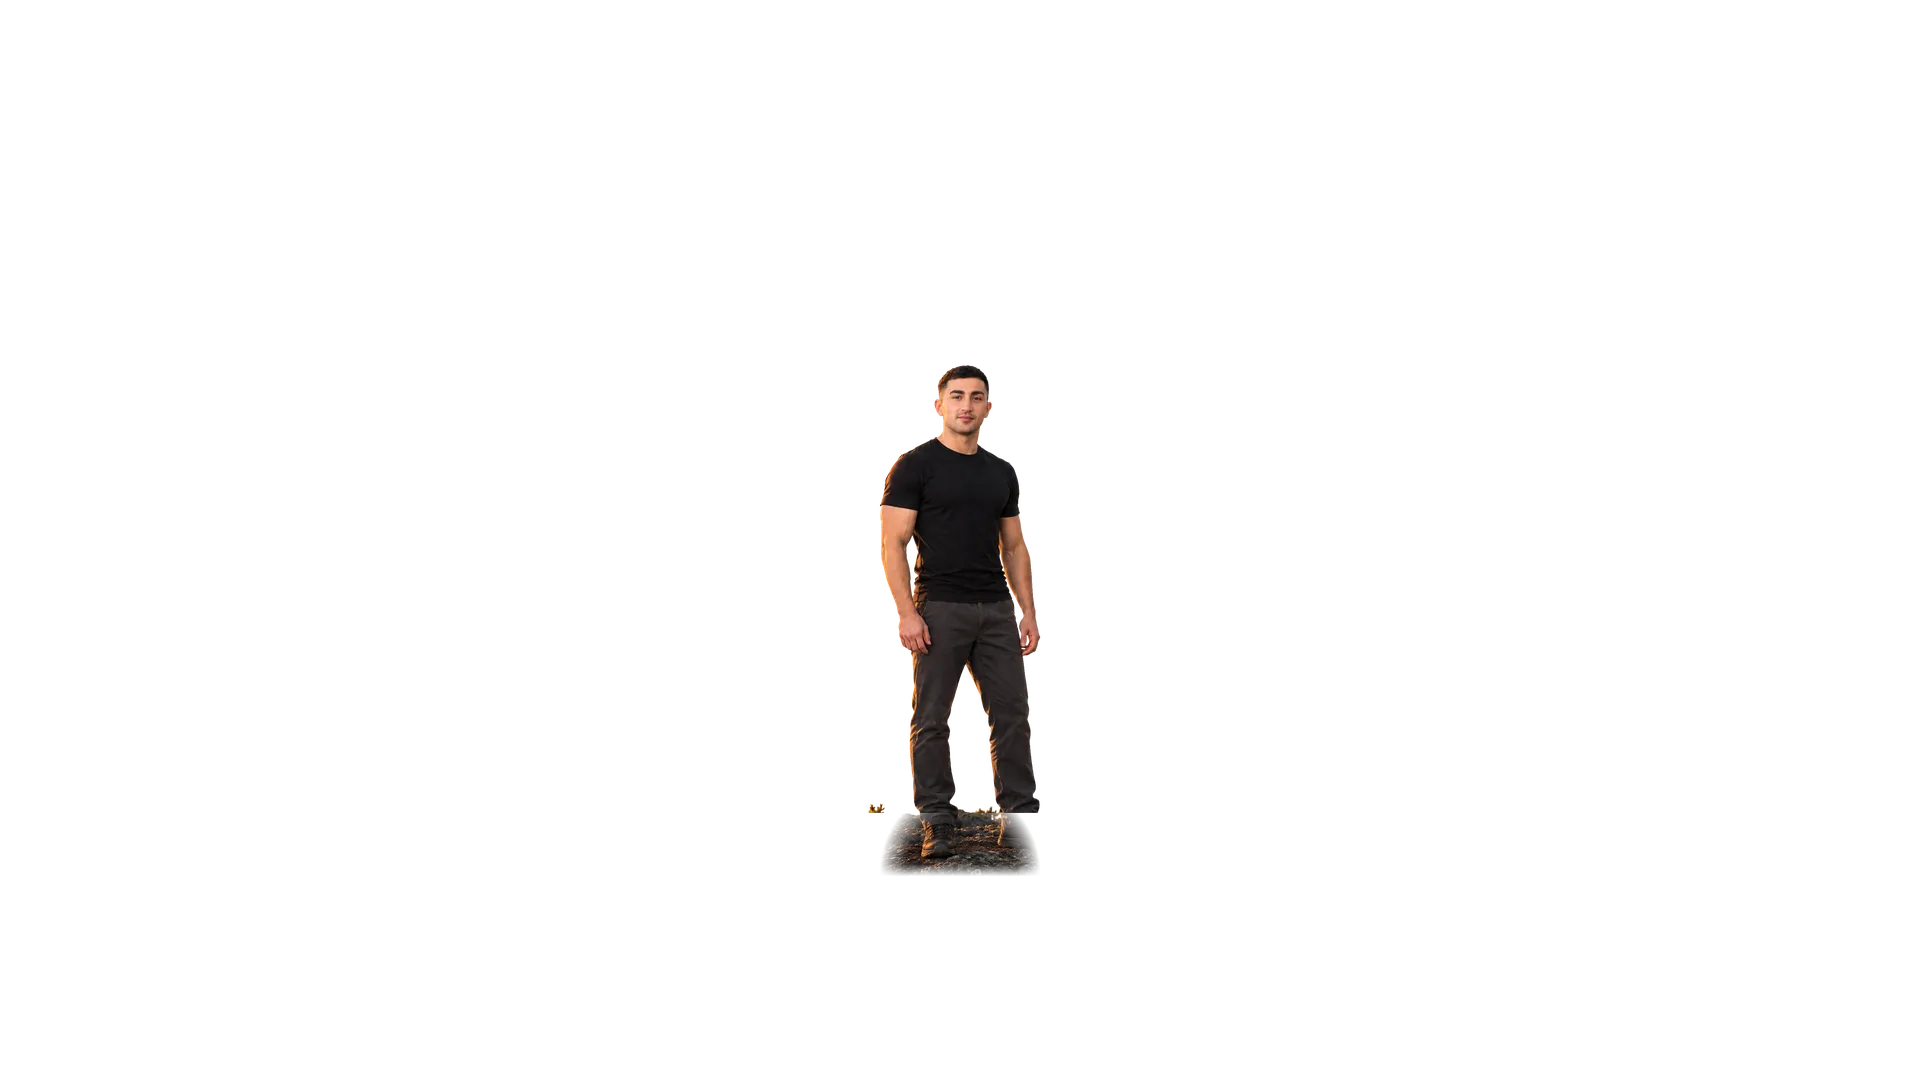
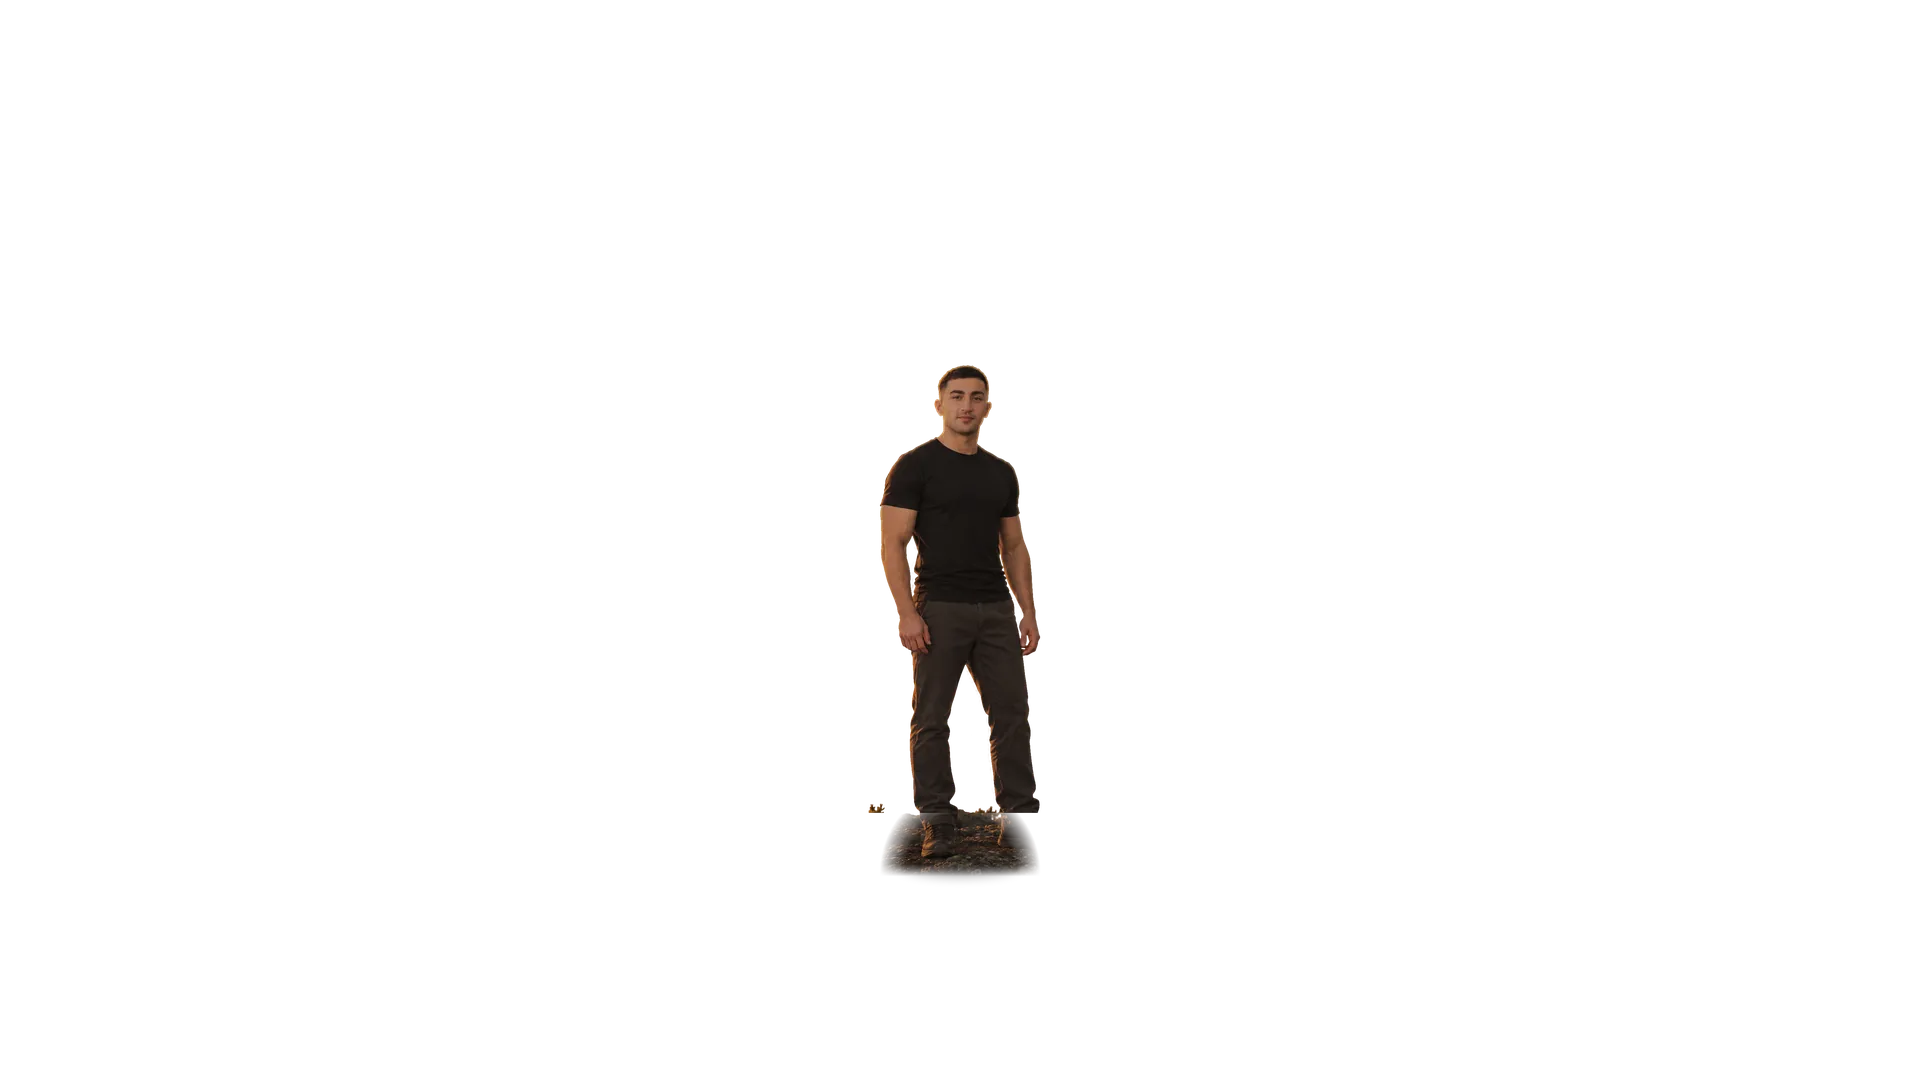
Auftritt: erst nur der Name, dann die Seite; Emre ans Gegenlicht angepasst (Lichtsaum oben, Schatten unter den Fuessen)

Changed region(s): [[0.4375, 0.4683, 0.5625, 0.6244], [0.4688, 0.3434, 0.5312, 0.4371], [0.4688, 0.7493, 0.5312, 0.8118]]

diff --git a/index.html b/index.html
@@ -64,6 +64,26 @@ img { display: block; max-width: 100%; height: auto; }
 .skip { position: fixed; left: var(--pad); top: 16px; z-index: 50; padding: 12px 16px; background: var(--text); color: var(--bg); border-radius: 999px; font-size: 14px; transform: translateY(-200%); transition: transform 160ms var(--ease-out); }
 .skip:focus-visible { transform: none; outline-offset: 2px; }
 
+/* ---------- Auftritt (Loader) ---------- */
+.loader { display: none; position: fixed; inset: 0; z-index: 100; align-items: center; justify-content: center; pointer-events: none; }
+html.intro .loader { display: flex; pointer-events: auto; }
+html.intro body { overflow: hidden; }
+html.intro .parallax__title { opacity: 0; }
+.loader__grund { position: absolute; inset: 0; background: var(--bg); }
+.loader__name {
+  position: relative; font-family: var(--serif);
+  font-size: min(17vw, 16rem); line-height: 0.85; letter-spacing: 0.02em;
+  text-transform: uppercase; white-space: nowrap; color: #F4EEE4;
+  text-shadow: 0 0.03em 0.2em rgba(0,0,0,0.45);
+  transform-origin: 50% 50%; will-change: transform;
+}
+.loader__name .dot { color: var(--accent); text-shadow: 0 0 0.35em rgba(255,140,60,0.7); display: inline-block; }
+.loader__maske { display: inline-block; overflow: hidden; vertical-align: top; padding: 0.06em 0 0.1em; margin: -0.06em 0 -0.1em; }
+.loader__buchstabe { display: inline-block; will-change: transform; }
+.loader__balken { position: absolute; left: 50%; bottom: 14svh; width: min(200px, 44vw); height: 1px; background: var(--line); transform: translateX(-50%); overflow: hidden; }
+.loader__balken span { display: block; height: 100%; background: var(--accent); transform: scaleX(0); transform-origin: left; }
+@media (max-width: 700px) { .loader__name { font-size: 21vw; } }
+
 /* ---------- Navigation ---------- */
 .nav {
   position: fixed; inset: 0 0 auto 0; z-index: 20;
@@ -324,8 +344,23 @@ img { display: block; max-width: 100%; height: auto; }
   * { transition-duration: 0.01ms !important; }
 }
 </style>
+<script>
+/* Auftritt: zuerst nur der Name, dann die Seite. Bei "Bewegung reduzieren" kein Vorhang. */
+(function () {
+  if (window.matchMedia('(prefers-reduced-motion: reduce)').matches) return;
+  var d = document.documentElement; d.classList.add('intro');
+  if ('scrollRestoration' in history) history.scrollRestoration = 'manual';
+  window.__introEnde = function () { d.classList.remove('intro'); var l = document.querySelector('.loader'); if (l) l.remove(); };
+  setTimeout(window.__introEnde, 9000);
+})();
+</script>
 </head>
 <body>
+<div class="loader" aria-hidden="true">
+  <div class="loader__grund"></div>
+  <div class="loader__name" data-loader-name>ERGUN<span class="dot">.</span></div>
+  <div class="loader__balken"><span data-loader-balken></span></div>
+</div>
 
 <a class="skip" href="#inhalt">Zum Inhalt springen</a>
 
@@ -489,7 +524,7 @@ img { display: block; max-width: 100%; height: auto; }
   });
 })();
 (function () {
-  if (!window.gsap || !window.ScrollTrigger) return;
+  if (!window.gsap || !window.ScrollTrigger) { if (window.__introEnde) window.__introEnde(); return; }
   var reduce = window.matchMedia('(prefers-reduced-motion: reduce)').matches;
   if (reduce) return;
 
@@ -531,14 +566,76 @@ img { display: block; max-width: 100%; height: auto; }
 
   /* Einstieg beim Laden: Ebenen und Titel setzen sich nacheinander, fertig nach 1,6 s.
      Nur transform/opacity; das Scrubben oben nutzt yPercent, hier y in Pixeln. */
-  gsap.timeline({ defaults: { ease: 'expo.out' } })
-    .from('.parallax__layer-img[data-parallax-layer="1"]', { scale: 1.06, transformOrigin: '50% 100%', duration: 1.6 }, 0)
-    .from('.parallax__layer-img[data-parallax-layer="2"]', { y: 40, duration: 1.4 }, 0.05)
-    .from('.parallax__layer-img[data-parallax-layer="4"]', { y: 70, duration: 1.4 }, 0.1)
-    .from('.parallax__layer-img[data-parallax-layer="5"]', { y: 50, opacity: 0, duration: 1.3 }, 0.2)
-    .from('.parallax__title', { yPercent: 18, opacity: 0, duration: 1.3 }, 0.25)
-    .from('.nav', { opacity: 0, duration: 0.8 }, 0.6)
-    .from('.parallax__hint', { opacity: 0, duration: 0.6 }, 1.0);
+  var heroEinstieg = gsap.timeline({ paused: true, defaults: { ease: 'expo.out' } })
+    .from('.parallax__layer-img[data-parallax-layer="1"]', { scale: 1.08, transformOrigin: '50% 100%', duration: 1.8 }, 0)
+    .from('.parallax__layer-img[data-parallax-layer="2"]', { y: 60, duration: 1.6 }, 0.05)
+    .from('.parallax__layer-img[data-parallax-layer="4"]', { y: 110, duration: 1.6 }, 0.1)
+    .from('.parallax__layer-img[data-parallax-layer="5"]', { y: 80, opacity: 0, duration: 1.4 }, 0.25)
+    .from('.nav', { opacity: 0, y: -8, duration: 0.9 }, 0.7)
+    .from('.parallax__hint', { opacity: 0, duration: 0.6 }, 1.1);
+
+  /* ===== Auftritt: Name baut sich auf, wartet aufs Laden, gleitet dann an seinen Platz ===== */
+  var loader = document.querySelector('.loader');
+  var titel = document.querySelector('.parallax__title');
+  if (!loader || !document.documentElement.classList.contains('intro')) {
+    heroEinstieg.play();
+  } else {
+    if (smoother) smoother.paused(true);
+    window.scrollTo(0, 0);
+    var name = loader.querySelector('[data-loader-name]');
+    var balken = loader.querySelector('[data-loader-balken]');
+    var punkt = name.querySelector('.dot'); punkt.remove();
+    var text = name.textContent.trim(); name.textContent = '';
+    text.split('').forEach(function (z) {
+      var m = document.createElement('span'); m.className = 'loader__maske';
+      var b = document.createElement('span'); b.className = 'loader__buchstabe'; b.textContent = z;
+      m.appendChild(b); name.appendChild(m);
+    });
+    name.appendChild(punkt);
+
+    var buchstabenFertig = false, geladen = false, gestartet = false;
+    gsap.timeline({ onComplete: function () { buchstabenFertig = true; weiter(); } })
+      .from(name.querySelectorAll('.loader__buchstabe'), { yPercent: 115, duration: 1.1, ease: 'expo.out', stagger: 0.07 }, 0.15)
+      .from(punkt, { scale: 0.2, opacity: 0, duration: 0.7, ease: 'back.out(3)' }, 0.75)
+      .to({}, { duration: 0.35 });
+
+    /* Ladefortschritt: Hero-Bilder + Schriften */
+    var bilder = [].slice.call(document.querySelectorAll('.parallax__layer-img'));
+    var gesamt = bilder.length + 1, fertig = 0;
+    var balkenTo = gsap.quickTo(balken, 'scaleX', { duration: 0.5, ease: 'power2.out' });
+    function eins() { fertig++; balkenTo(Math.min(1, fertig / gesamt)); if (fertig >= gesamt) { geladen = true; weiter(); } }
+    function dekodieren(img) { return img.decode ? img.decode().catch(function () {}) : Promise.resolve(); }
+    bilder.forEach(function (img) {
+      if (img.complete && img.naturalWidth) { dekodieren(img).then(eins); }
+      else {
+        img.addEventListener('load', function () { dekodieren(img).then(eins); }, { once: true });
+        img.addEventListener('error', eins, { once: true });
+      }
+    });
+    (document.fonts && document.fonts.ready ? document.fonts.ready : Promise.resolve()).then(eins);
+    setTimeout(function () { geladen = true; weiter(); }, 6000);
+
+    function weiter() {
+      if (gestartet || !buchstabenFertig || !geladen) return;
+      gestartet = true;
+      /* FLIP: Loader-Name gleitet exakt auf die Position des Hero-Titels */
+      var a = name.getBoundingClientRect(), z = titel.getBoundingClientRect();
+      var dx = (z.left + z.width / 2) - (a.left + a.width / 2);
+      var dy = (z.top + z.height / 2) - (a.top + a.height / 2);
+      var sk = z.width / a.width;
+      gsap.timeline({ onComplete: function () {
+          gsap.set(titel, { opacity: 1 });
+          document.documentElement.classList.remove('intro');
+          loader.remove();
+          if (smoother) smoother.paused(false);
+          ScrollTrigger.refresh();
+        } })
+        .to(balken.parentNode, { opacity: 0, duration: 0.3, ease: 'power1.out' }, 0)
+        .to(name, { x: dx, y: dy, scale: sk, duration: 1.15, ease: 'expo.inOut' }, 0.1)
+        .to(loader.querySelector('.loader__grund'), { opacity: 0, duration: 1.0, ease: 'power2.inOut' }, 0.45)
+        .add(function () { heroEinstieg.play(); }, 0.45);
+    }
+  }
 
   /* Statement: Wörter erscheinen nacheinander beim Scrollen (Screenreader lesen den ganzen Satz) */
   var split = document.querySelector('[data-split]');

diff --git a/LIESMICH.md b/LIESMICH.md
@@ -55,7 +55,9 @@ Handy: Bewegung × 0,6. `prefers-reduced-motion`: Standbild.
 ## Prüfung
 - Desktop 1440 und 1024: Hero gerendert (Name lesbar über dem Kopf, Sonne hinter dem Namen, Füße auf dem Fels)
 - Handy 390 (Hochformat): lädt die `-hoch`-Ebenen, Skalierung 0,94× bei 2-fach-Display – kein Weichzeichnen mehr; Screenshot geprüft
-- Anti-Slop-Scan und Motion-Audit (Tastemaker-Skripte): sauber bis auf die wachsende Hover-Unterstreichung (Fehlalarm)
+- Anti-Slop-Scan: sauber (Textverlauf im Titel entfernt) · Motion-Audit: nur die wachsende Hover-Unterstreichung (Fehlalarm)
+- Scroll-Ruhe am Handy: keine `mix-blend-mode`/`filter`-Effekte mehr auf bewegten Elementen, `normalizeScroll` + leichte Touch-Glättung in ScrollSmoother
+- Sonne: lokal nachbearbeitet (`bilder/hero/4k/sky-sonne-v2.png` ist die Quelle) – weicher Rand, heller Kern, dreistufige Glut
 - Lighthouse: noch nicht gelaufen (braucht `npx lighthouse`, Download)
 
 ## Online stellen (GitHub + Vercel)
